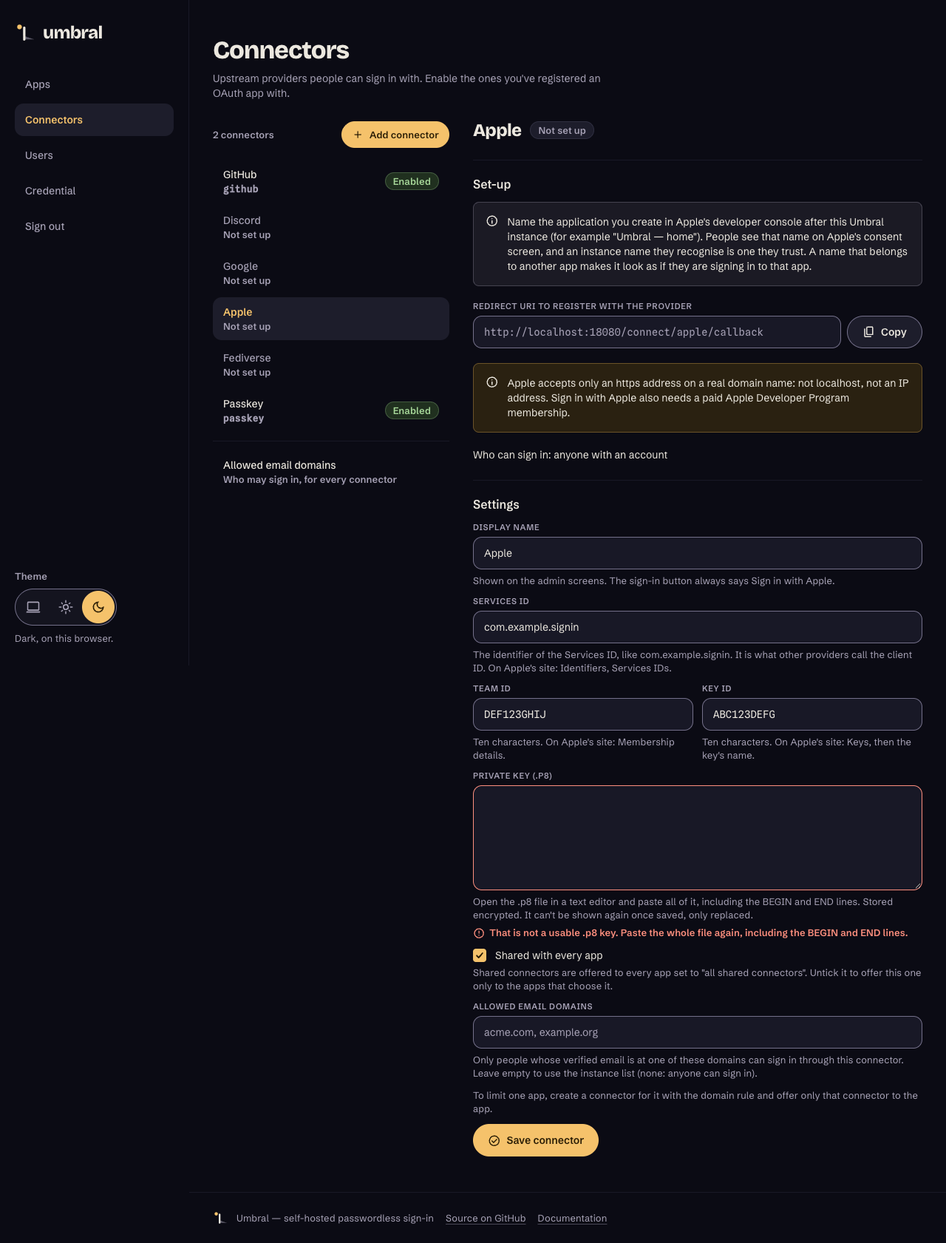
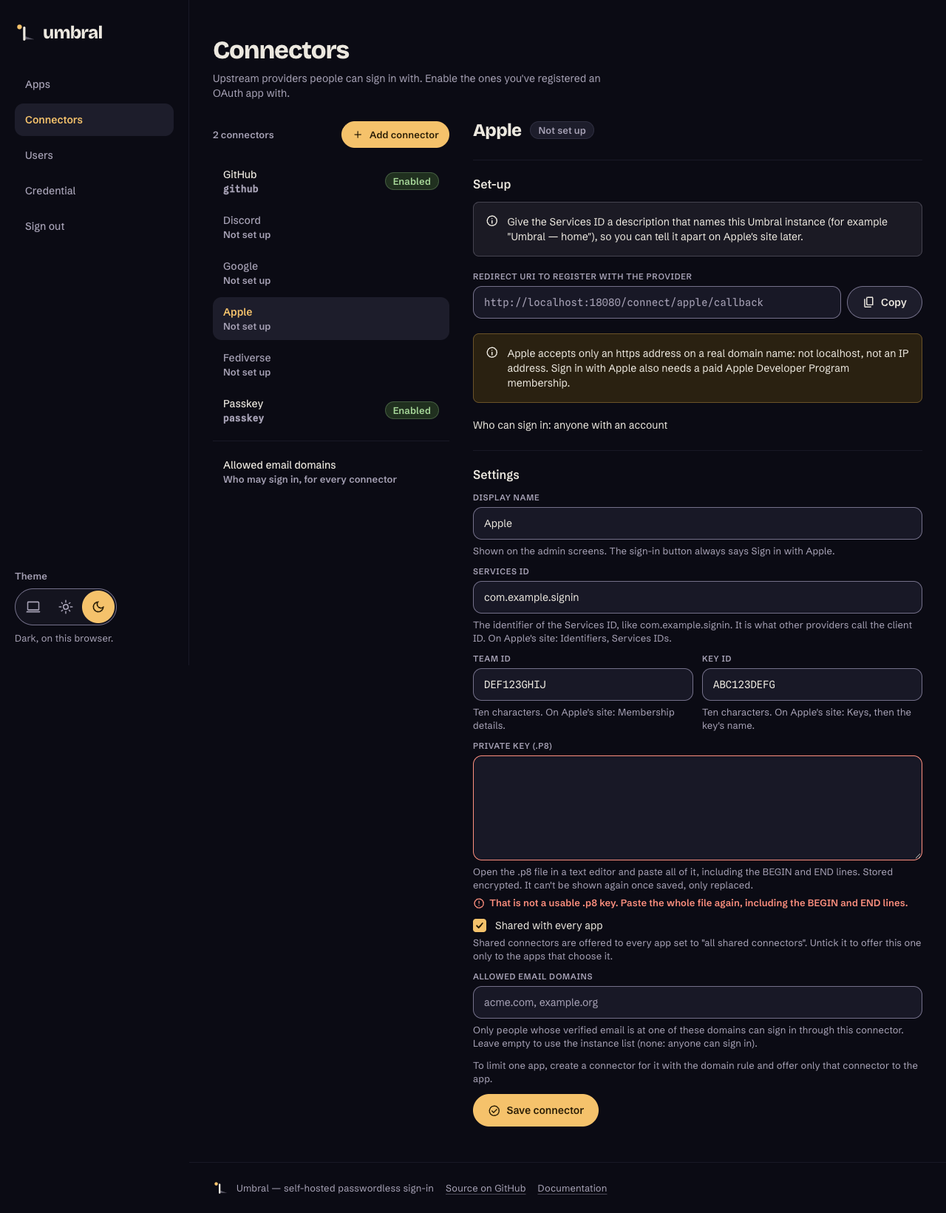
review(ap1e): design review's blocking item and nits, documentation nits, answers
Design: the Apple pane's set-up note claims nothing about Apple's own screen
(Texts.AppleNamingAdvice, with a test); the secret-store notice ends in its next
action; the display name's refusal ends 'then try again.'. Captures retaken.
Docs: Apple's own name for Work & School with its source, why one Apple
connector and what to do instead, the real-address half of the linking gotcha,
the Troubleshooting sentence. review.md and review-docs.md carry the answers.

diff --git a/.alta/reviews/2026-11-11-apple-connector/code-review.md b/.alta/reviews/2026-11-11-apple-connector/code-review.md
@@ -1,0 +1,82 @@
+# Code review: Sign in with Apple (task ap1e, spec 013)
+
+Branch `alta/indigo-pheasant-5jd9`, `25f3718..8fd0a41`. Reviewer: the `umbral` session, 2026-11-11.
+
+How it was reviewed:
+- Two independent read-only reads by concern: the form-post round trip and its cookies, then the signing, the tokens, the claims and the key's storage.
+- My own read of `Apple.fs`.
+- I verified every finding below against the code myself before writing it down.
+- The full suite, run from a git checkout of the branch's files (results at the end).
+
+## Verdict
+
+**One blocking item (B1), small; six nits.** The design holds:
+- the second cookie and its own purpose;
+- deletion before comparison;
+- constant-time `state`;
+- the `id_token` taken only from the back channel;
+- `claimIsTrue`;
+- the key kept only in the secret store and never in an exception's text.
+
+B1 is an old ordering that the new route makes worse, and it breaks the security log's own rule.
+
+## Blocking
+
+- **B1. The provider's `error` is acted on before `state`, and written into the security log uncleaned.**
+  - **Where:** `OAuthRoundTrip.complete` (`OAuthRoundTrip.fs`, around 325–338) returns `ProviderReturnedError error` before it looks at `state`. `Detail` writes it as `provider_error:{error}` (around 122), and `Callback.fs` (around 168) records that in `security_events` as it came.
+  - **Why it matters now:** the order is the same on `main`, and a top-level cross-site GET with the `Lax` cookie could reach it there too. But the new `POST /connect/{slug}/callback` accepts a form value up to 64 KB, against about 8 KB for a query, and any site can auto-submit it. The `SameSite=None` cookie goes with it.
+  - **The scenario:**
+    1. A victim is midway through an Apple sign-in.
+    2. A page on another site posts `error=<anything>` with no `state`.
+    3. The victim lands on "you cancelled", which isn't true.
+    4. The attacker's text, including `;` and `=`, lands in the security log under the victim's address. `SecurityEvents.fs` says `detail` is short and structured, and `safeDomain` exists precisely so that a provider's odd text can't add fields of its own.
+  - **The fix, in the shared `complete`** (it fixes the GET path too):
+    1. Compare `state` first, after the cookie is gone, as today. RFC 6749 §4.1.2.1 returns `state` with an error, and Apple, GitHub, Google, Discord and Doorkeeper-based servers (Mastodon) all send it. A provider that left it off on a cancel would show the general failure rather than "you cancelled", which is acceptable.
+    2. Write only an error code shaped like `[a-z_]{1,64}`, else `other`, in the `safeDomain` style. Leave the cancel words (`access_denied`, `user_cancelled_authorize`) as they are.
+  - **Tests:**
+    - a cross-site POST with `error` and no or a wrong `state` is `state_missing` or `state_mismatch`, not a cancel;
+    - an `error` with `;`, `=` and 10 KB of text is recorded as `provider_error:other`.
+
+## Nits
+
+- **N1. Make the replay check one atomic step.** `complete` calls `alreadyConsumed`, then later `rememberConsumed … |> ignore`. Two concurrent posts with the same cookie and state can both pass. This was already there before the change, and Apple's single-use code limits the damage, but "single use" should be Umbral's own guarantee. Fix: make `consumed.TryAdd(state, now)` the last gate, returning `Replayed` when it's false, and drop the separate check.
+- **N2. Prefix the form-post cookie: `__Secure-umbral_connect_post`.** It is always `Secure`, so the prefix costs nothing, and it stops a man-in-the-middle on plain http from planting a correlation the attacker minted for their own sign-in (login CSRF by cookie tossing). `__Host-` would also stop sibling subdomains but needs `Path=/`, so `__Secure-` is the fit here. The `Lax` cookie can't take it while it's plain http in development; leave it alone.
+- **N3. Three refusals are only half tested.**
+  - `response_mode_mismatch` is in no test. Add one: start as Apple, then recreate the slug as another kind within the correlation's lifetime.
+  - The oversized-body and too-many-fields tests in `FormPostCallbackTests.fs` post without a correlation cookie, so they reach `no_correlation_cookie` whether or not the cap works. Start a fake Apple flow first, then post with the right cookie, and assert `state_missing` and no token request.
+  - `the answer as a GET is refused` (`AppleSignInTests.fs`) doesn't assert the recorded detail.
+- **N4. Accept only `application/x-www-form-urlencoded` on the POST callback, and fix a comment.** `HasFormContentType` also accepts `multipart/form-data`, which Apple never sends. Also, `BufferBodyLengthLimit` does nothing without `BufferBody = true`; the real cap is `IHttpMaxRequestBodySizeFeature`, which Kestrel honours. Production is fine; the comment overstates it.
+- **N5. Check the curve, not only the size.** `importKey` refuses a key whose `KeySize` isn't 256, but secp256k1 and brainpoolP256r1 keys are 256 bits too. They import, sign, and pass the Enable check, and then every sign-in fails at Apple with `invalid_client`. That's not a hole (Apple issues only P-256), but R4 and the comment promise P-256. Fix: require `ExportParameters(false).Curve.Oid.Value = "1.2.840.10045.3.1.7"`, and add a secp256k1 case to the "does not sign" tests.
+- **N6. Drop format characters from the name too.** `nameOf` drops `Char.IsControl` (the Cc category) but keeps Cf: right-to-left overrides (U+202E), isolates (U+2066–2069) and zero-width characters. Someone who edits their own form post can make their name read backwards in the Users list and in apps. The impact is spoofing their own name only, since the field is read after the `id_token` validated and never supplies email. Fix: also drop `UnicodeCategory.Format`.
+
+## Written down, not a finding
+
+- **The name.** The `user` field is honoured on every form post, not only the first, and nothing signs it. A person can rename only themselves this way. Keep that, but say it in `docs/connectors/apple.md`: the name comes from a field Apple doesn't sign, and it is a display name only.
+- **A missing cookie** (for example, a browser that drops `SameSite=None`) fails closed with `no_correlation_cookie`, on Umbral's sign-in page rather than the app's. The walkthrough already names the log line; mentioning older Safari there is optional.
+
+## Checked and sound
+
+- **The two modes are kept apart.** They have separate cookie names and separate data-protection purposes, so a cookie from one mode decrypts as `Corrupt` in the other (tested both ways). `response_mode_mismatch` is the second lock.
+- **The order inside `complete`.** Read, delete with matching attributes, decrypt, compare `state` in constant time, check the slug, check expiry on the server's clock. The POST route touches only `umbral_connect_post`, never the GET flow's cookie. The GET callback is unchanged in substance, and the Fediverse connector passes `Redirect` explicitly.
+- **No open redirect.** `returnUrl` is cleaned at the start and travels only inside the encrypted cookie.
+- **Where the identity comes from.** Only the back-channel token exchange plus the nonce. The `id_token` in the posted form is ignored.
+- **Antiforgery** is disabled only on that one route, which has the same rate limit as the GET callback. An unreadable body is an empty answer that still spends the correlation.
+- **The client secret.**
+  - ES256 with `kid`, exactly `iss`, `sub`, `aud`, `iat` and `exp`, and no `nbf`. Five minutes, one per token request.
+  - The key is disposed after use, and signature providers aren't cached.
+  - No exception text leaves `importKey` or `clientSecret`. The PEM is never sent anywhere; only the signed JWT goes to Apple.
+- **The key's storage.**
+  - It goes only to the secret store, with an empty hint.
+  - SQLite holds the Team ID and Key ID only, and both or neither: a row with half the pair can't sign.
+  - Pages show dots only, and the generic connector form can't reach the Apple connector.
+- **`validateIdToken`.** It is unchanged apart from taking the client ID as a parameter. Apple calls it with its fixed issuer and the Services ID as audience, against Apple's key set, asymmetric algorithms only, the nonce compared exactly.
+- **`email_verified`.**
+  - It accepts JSON `true` or exactly `"true"`, and nothing else (tested case by case).
+  - It is false without an email.
+  - `is_private_email` is read and acted on nowhere.
+  - Linking still goes through the verified-only path of the h762 fix.
+  - The OIDC adapter is unchanged.
+- **`ConnectorStore.update` and the schema.**
+  - `appleKey = None` keeps the stored ids.
+  - `applyChanges` is the old inline code moved, plus `hintOf` and `appleKey`.
+  - Schema version 10 adds two nullable columns, in both the fresh schema and the upgrade step, and rewrites no data.

diff --git a/docs/connectors/apple.md b/docs/connectors/apple.md
@@ -21,6 +21,10 @@ Back to the [README](../../README.md). Other providers:
   README's quick start cannot be used with Apple; for trying it on one machine,
   see [Trying it from a laptop](#trying-it-from-a-laptop).
 - **One Apple connector per Umbral instance.** Its identifier is always `apple`.
+  The other providers let you add a second connector to give one app its own
+  name on the button. Apple's rules fix this button's title, so two Apple
+  connectors would be two identical buttons. An app that must have a Services
+  ID of its own needs an Umbral instance of its own.
 - **Why you might need it.** App Store Review Guideline 4.8 (Login Services,
   read on 2026-11-11) says that an app that uses a third-party or social login
   service for the person's primary account "must also offer as an equivalent
@@ -138,7 +142,7 @@ The pane also has **Allowed email domains**, as the other panes do: see
 
 | What the form says | What to do |
 | --- | --- |
-| "Enter a name for this connector, then save again." | The display name is empty. |
+| "Enter a name for this connector, then try again." | The display name is empty. |
 | "Enter the Services ID, like com.example.signin, with no spaces." | The Services ID is empty or has a space in it. |
 | "A Team ID is ten letters and digits, like DEF123GHIJ." | Copy it again from **Membership details**. |
 | "A Key ID is ten letters and digits, like ABC123DEFG." | Copy it again from the key's page, or from the file name. |
@@ -147,7 +151,7 @@ The pane also has **Allowed email domains**, as the other panes do: see
 | "Saved, but not enabled: Umbral could not reach Apple (&lt;reason&gt;). Press Enable to try again." | The connector is saved. Check that the machine can reach `appleid.apple.com`, then press **Enable**. |
 | "Not enabled: Umbral could not reach Apple (&lt;reason&gt;). Try again in a moment." | Same, when you pressed **Enable**. |
 | "Not enabled: the stored key cannot sign. Paste the .p8 key again under Replace the private key." | What the secret store holds is not a usable key. Paste the `.p8` key again. |
-| "Not enabled: Umbral could not read the key from the secret store (&lt;reason&gt;)." | The secret store did not answer or refused. The reason names the store and the cause; see [Secret stores](../run/secret-stores.md). |
+| "Not enabled: Umbral could not read the key from the secret store (&lt;reason&gt;). Check the store, then press Enable again." | The secret store did not answer or refused. The reason names the store and the cause; see [Secret stores](../run/secret-stores.md). |
 
 A refused form shows each message under the field it is about and keeps what
 you typed, except the key, which is never drawn back. The last four messages
@@ -163,9 +167,9 @@ appear at the top of the pane.
 
 The app gets an ordinary OpenID Connect user: a stable subject, the email (their
 own, or a relay address Apple made for them), and the name from the first
-sign-in on. A person whose Apple Account sends no email (this can happen with
-Apple's Work and School accounts) signs in without one, so your app must cope
-with a missing `email`.
+sign-in on. A person whose Apple Account sends no email (Apple says this can
+happen with Sign in with Apple at Work & School) signs in without one, so your
+app must cope with a missing `email`.
 
 ## Trying it from a laptop
 
@@ -199,9 +203,9 @@ an email Apple reports as verified counts, and the domain must match exactly.
   only your company's domain therefore refuses them. Add
   `privaterelay.appleid.com` to the list only if anyone with an Apple Account
   may sign in: that domain says nothing about who the person is.
-- A person with no email, or with one Apple does not report as verified (this
-  can happen with Apple's Work and School accounts), is refused while a rule
-  applies.
+- A person with no email, or with one Apple does not report as verified (Apple
+  says this can happen with Sign in with Apple at Work & School), is refused
+  while a rule applies.
 
 ## Gotchas
 
@@ -218,7 +222,10 @@ an email Apple reports as verified counts, and the domain must match exactly.
   them. Umbral treats it as their verified email. Three things follow. It is not
   the address of their Google or GitHub account, so Umbral does not join the two
   users (see
-  [How people are identified](../integrate.md#how-people-are-identified)). If you
+  [How people are identified](../integrate.md#how-people-are-identified)). A
+  person who shares their real address is joined as with any provider: when
+  Apple reports it as verified and one existing user has that verified address,
+  they are the same user. If you
   limit sign-in to [allowed email domains](#allowed-email-domains), a relay
   address passes only if `privaterelay.appleid.com` is in the list. And if your
   app sends mail to its users, Apple delivers mail to relay addresses only from
@@ -247,9 +254,9 @@ an email Apple reports as verified counts, and the domain must match exactly.
 
 ## Troubleshooting
 
-For a failed sign-in, the cause is in the security log: see how to read it under
-"Someone clicks a provider and sees "Sign-in didn't complete"" in
-[Troubleshooting](../run/troubleshooting.md).
+For a failed sign-in, the cause is in the security log.
+[Troubleshooting](../run/troubleshooting.md) says how to read it, in its entry
+about a person who clicks a provider and sees *Sign-in didn't complete*.
 
 | What you see | Cause and fix |
 | --- | --- |

diff --git a/.alta/reviews/2026-11-11-apple-connector/review.md b/.alta/reviews/2026-11-11-apple-connector/review.md
@@ -1,0 +1,85 @@
+# Design review: Sign in with Apple (spec 013), the pane and the sign-in button
+
+Task ap1e. Branch `alta/indigo-pheasant-5jd9`, `25f3718..8fd0a41`. Reviewed 2026-11-11 by the
+design reviewer from the design-review notes, the stylesheet and DESIGN.md diff, the detector
+and six of the 36 captures (`pane-not-set-up-1280-dark`, `refused-key-360-light`,
+`pane-set-up-1280-light`, `picker-accent-1280-light`, `picker-last-used-360-dark`,
+`picker-focus-apple-1280-dark`). Apple's guidelines were not read by me; the button's rules
+rest on the implementer's reading of them.
+
+## Verdict
+
+**Not yet clear: one blocking item, three nits.**
+
+## What is right
+
+- The pane follows the answers: field order, Team ID and Key ID side by side in mono, the key
+  in a `.um-textarea`, the saved key as dots alone with the replace field under it, the caveat
+  in the agreed words, errors under the field at 422 with typed values kept and the key not
+  drawn back.
+- The button: fixed title, black in the light theme and white in the dark, unchanged on an
+  accent page while the others take the accent, same size and radius, the Last used badge
+  legible on the white fill, the focus ring visible, the logo slot empty and taking no space.
+- DESIGN.md records the exception in Buttons and in the Fill Pair rule.
+- No overflow at 360 in the states opened.
+
+## Blocking
+
+1. **The naming advice states something not confirmed.** The Set-up note says "People see
+   that name on Apple's consent screen". You could not confirm which name Apple shows for a
+   Services ID, and the product does not state what it has not checked. For Apple, replace the
+   generic advice with a sentence that claims nothing about Apple's screen, for example:
+   *"Give the Services ID a description that names this Umbral instance (for example "Umbral —
+   home"), so you can tell it apart on Apple's site later."* If someone confirms what Apple
+   shows, the stronger sentence can come back with its source.
+
+## Nits
+
+2. **Record the detector's four findings as an ignore.** `.um-btn-apple` sets `#000` and
+   `#fff`, which the detector reports as colours outside DESIGN.md. They are deliberate and
+   documented. Add value ignores with the reason, so the next run is quiet:
+   `impeccable hooks ignore-value design-system-color "#000" --file src/Umbral/Assets/umbral.input.css --reason "Agent: Apple's rules fix the Sign in with Apple button to black and white; DESIGN.md Buttons"`
+   and the same for `"#fff"`. If the CLI is not at hand, say so and I will add them.
+3. **The reason-less notices.** Fine as a fallback. Check that each still ends in the next
+   action ("Check the key and save again", "Try Enable again") and not only in what failed.
+4. **The display name's refusal** ("Enter a name for this connector, then save again."): end it
+   "then try again.", as the Apps notice now does.
+
+## Your four points
+
+1. Wordings: the display name hint is right; the refusal per nit 4; the secret-store notice
+   is right; the reason-less forms per nit 3; the naming advice is the blocking item.
+2. Apple first on the picker because of the identifier order: leave it. Nothing should place
+   it specially, and Last used already reorders for the person.
+3. Outside this change, to queue: `Texts.HomeLead` should name Apple once this merges, and
+   PRODUCT.md's lists of connector kinds lack Fediverse and Apple. I will pass both to the
+   queue session.
+4. The logo slot: as agreed; the artwork is the maintainer's (task pqzq). Until it is in, the
+   spec should say the connector is not ready for an App Store submission.
+
+## Re-check
+
+`pane-not-set-up` at 1280 dark and 360 light after the blocking fix, and the commit.
+
+## Answers (implementer, 2026-11-11)
+
+1. **Blocking, taken.** The Apple pane has a set-up note of its own, your sentence:
+   "Give the Services ID a description that names this Umbral instance (for example "Umbral —
+   home"), so you can tell it apart on Apple's site later." (`Texts.AppleNamingAdvice`, chosen in
+   `Connectors.providerPane` for the Apple kind; the other providers keep the generic advice.)
+   A test asserts the sentence is on the pane and that "consent screen" is not. The contract
+   records it.
+2. **Not done here: the detector's CLI is not on this session's PATH** (`impeccable` is not
+   found, and `.impeccable/` in the worktree holds only `config.json` and `design.json`). Please
+   add the two value ignores for `#000` and `#fff` in `src/Umbral/Assets/umbral.input.css`
+   with your reason, as you offered.
+3. **Taken.** Three of the four reason-less notices already ended in the next action
+   ("Press Enable to try again.", "Try again in a moment.", "Paste the .p8 key again under
+   Replace the private key."). The secret-store one did not: it now ends "Check the store,
+   then press Enable again.", with and without its reason.
+4. **Taken.** "Enter a name for this connector, then try again."
+
+The walkthrough's table of messages and the contract follow the new wording. All captures
+were retaken after the fix; the two you asked for are `pane-not-set-up-1280-dark.png` and
+`pane-not-set-up-360-light.png`. Affected tests pass (113 in the Apple admin, connector and
+meta files); the link check passes.

diff --git a/.alta/reviews/2026-11-11-apple-connector/notes.md b/.alta/reviews/2026-11-11-apple-connector/notes.md
@@ -43,10 +43,10 @@ The designer's answers of 2026-11-11 (questions 1 to 7) are in `specs/013-apple-
 **Wording that was not in the answers**, for you to judge:
 
 1. Display name hint: "Shown on the admin screens. The sign-in button always says Sign in with Apple."
-2. Display name refused: "Enter a name for this connector, then save again." (the other panes' message speaks of the sign-in button's label).
-3. `connector-enable-apple-store`: "Not enabled: Umbral could not read the key from the secret store (<store>: <cause>)."
+2. Display name refused: "Enter a name for this connector, then try again." (the other panes' message speaks of the sign-in button's label; ending changed after the design review).
+3. `connector-enable-apple-store`: "Not enabled: Umbral could not read the key from the secret store (<store>: <cause>). Check the store, then press Enable again." (the next action added after the design review).
 4. Each of the four notices has a form without its reason, shown when the reason cookie is gone (a refresh).
-5. The naming advice at the top of the Set-up section is the generic one: "Name the application you create in Apple's developer console after this Umbral instance … People see that name on Apple's consent screen". I could not confirm on Apple's pages which name Apple's sign-in page shows for a Services ID, so the walkthrough does not claim it. Say if this pane should word it differently.
+5. The note at the top of the Set-up section. It was the generic naming advice, which says people see the name on the provider's consent screen; that is not confirmed for a Services ID. After the design review the Apple pane has its own: "Give the Services ID a description that names this Umbral instance (for example "Umbral — home"), so you can tell it apart on Apple's site later."
 
 **Two things outside this change that you may want to queue:**
 
@@ -55,7 +55,7 @@ The designer's answers of 2026-11-11 (questions 1 to 7) are in `specs/013-apple-
 
 ### Captures
 
-Taken 2026-11-11 from a Release build on `http://localhost:18080` with Chrome (Playwright), by `capture.mjs` in this folder. `<state>-<width>-<theme>.png`, at 1280 and 360, dark and light, unless said. No state overflows horizontally at 360.
+Retaken 2026-11-11 after the design review's fix (all of them, so every pane capture shows the new set-up note), from a Release build on `http://localhost:18080` with Chrome (Playwright), by `capture.mjs` in this folder. `<state>-<width>-<theme>.png`, at 1280 and 360, dark and light, unless said. No state overflows horizontally at 360.
 
 | State | What it shows |
 | --- | --- |
@@ -96,7 +96,8 @@ Each statement of `docs/connectors/apple.md` and where it comes from:
 | The app gets a stable subject, the email, and the name from the first sign-in on | `Providers/Apple.fs:273` (`identityOf`), `:188` (`nameOf`); `UserStore.fs:173` (`COALESCE`: a later answer without a name keeps the stored one). |
 | A user without a name is "Apple user" | `UserStore.fs:141`. |
 | Stopping Sign in with Apple with the app makes Apple ask again | Apple Support, "Manage your apps with Sign in with Apple" (the iPhone steps and "you'll need to share your name and email again"). |
-| Relay address is the verified email; not joined with a Google or GitHub user | `Apple.fs:148` (`claimIsTrue`), `Domains/Linking.fs` (linking by verified email only). |
+| No email, or an unverified one, can happen with Sign in with Apple at Work & School | `research.md` R1, the `id_token` page: `email` "may be empty for Sign in with Apple at Work & School users", and "The system may not verify email addresses" for them. |
+| Relay address is the verified email; not joined with a Google or GitHub user; a real verified address is joined | `Apple.fs:148` (`claimIsTrue`), `Domains/Linking.fs` (linking by verified email only). |
 | `email_verified` accepted as boolean `true` or text `"true"` and nothing else | `Apple.fs:148`. |
 | A relay address passes a domain rule only if `privaterelay.appleid.com` is listed | `Handlers/Connect/Callback.fs` (`finishSignIn` applies the rule to the email's domain). |
 | A new client secret per sign-in, valid five minutes | `Apple.fs:87`, `:97`. |

diff --git a/specs/013-apple-connector/contracts/routes-and-screens.md b/specs/013-apple-connector/contracts/routes-and-screens.md
@@ -32,7 +32,11 @@ OIDC adapter's `id_token_invalid: <reason>` apply as they are.
 "Not set up" until saved, like the other built-in kinds. It is not in the add
 form's kind list.
 
-**Pane, Setup section.** As the other providers: the naming advice, the copy
+**Pane, Setup section.** As the other providers, with a note of its own in place
+of the generic naming advice (design review, 2026-11-11: the generic one says
+what Apple's consent screen shows, which is not confirmed): "Give the Services
+ID a description that names this Umbral instance (for example "Umbral — home"),
+so you can tell it apart on Apple's site later." Then the copy
 field with the return URL (`<public origin>/connect/apple/callback`), the rule
 line, and the caveat:
 
@@ -67,7 +71,7 @@ back:
 | Key ID | "A Key ID is ten letters and digits, like ABC123DEFG." |
 | Private key (missing on a new connector) | "Paste the .p8 key Apple let you download." |
 | Private key (unusable) | "That is not a usable .p8 key. Paste the whole file again, including the BEGIN and END lines." |
-| Display name | "Enter a name for this connector, then save again." (the other panes' message speaks of the sign-in button's label, which is fixed here) |
+| Display name | "Enter a name for this connector, then try again." (the other panes' message speaks of the sign-in button's label, which is fixed here) |
 | Allowed domains | The existing messages. |
 
 Refusals that are not about a field stay notices at the top of the pane: the
@@ -79,7 +83,7 @@ secret store refused the write (existing), the slug is taken (existing), and:
 | `connector-enable-apple-unreachable` | "Not enabled: Umbral could not reach Apple (<reason>). Try again in a moment." |
 | `connector-enable-apple-key` | "Not enabled: the stored key cannot sign. Paste the .p8 key again under Replace the private key." |
 
-| `connector-enable-apple-store` | "Not enabled: Umbral could not read the key from the secret store (<store>: <cause>)." |
+| `connector-enable-apple-store` | "Not enabled: Umbral could not read the key from the secret store (<store>: <cause>). Check the store, then press Enable again." |
 
 Several fields can be refused at once; each shows its own message.
 

diff --git a/.alta/reviews/2026-11-11-apple-connector/review-docs.md b/.alta/reviews/2026-11-11-apple-connector/review-docs.md
@@ -64,3 +64,25 @@ Reviewed 2026-11-11 by the documentation reviewer session, per section 6 of
 Complete under section 6: every statement with its code line, "quoted from Texts.fs" or Apple's
 page; what was not verified on Apple's site said plainly in the notes and on the page; the checks.
 The one gap is nit 1.
+
+## Answers (implementer, 2026-11-11)
+
+All four nits taken, in `docs/connectors/apple.md`:
+
+1. The parenthetical now uses Apple's own name and attributes it: "Apple says this can happen
+   with Sign in with Apple at Work & School" (both places). The source is in `notes.md` now:
+   `research.md` R1, the `id_token` page ("may be empty for Sign in with Apple at Work & School
+   users", "The system may not verify email addresses" for them).
+2. "Before you start" says why there is one: the other providers let you add a second connector
+   to give one app its own name on the button; Apple's rules fix this button's title, so two
+   would be two identical buttons. And what to do instead: an app that must have a Services ID
+   of its own needs an Umbral instance of its own.
+3. The relay gotcha adds the other case: a person who shares their real address is joined as
+   with any provider, when Apple reports it as verified and one existing user has that
+   verified address.
+4. The Troubleshooting sentence no longer nests quotes and no longer points at an anchor that
+   does not exist: it names the entry about a person who sees *Sign-in didn't complete*.
+
+Two messages in the table changed with the design review (the display name's refusal ends
+"then try again."; the secret-store notice ends with its next action). Both are again
+verbatim in `Texts.fs`. The link check passes (316 links).
